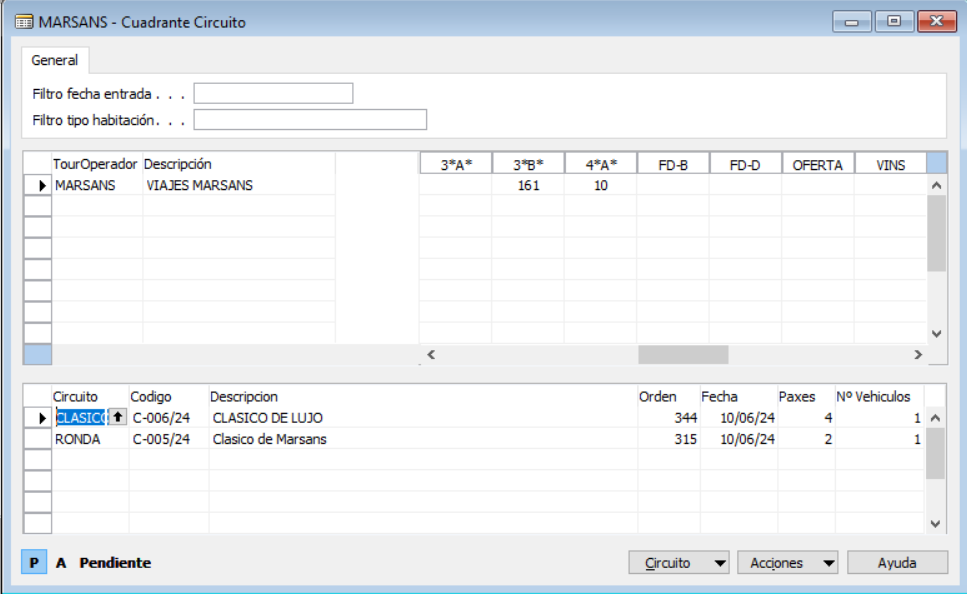
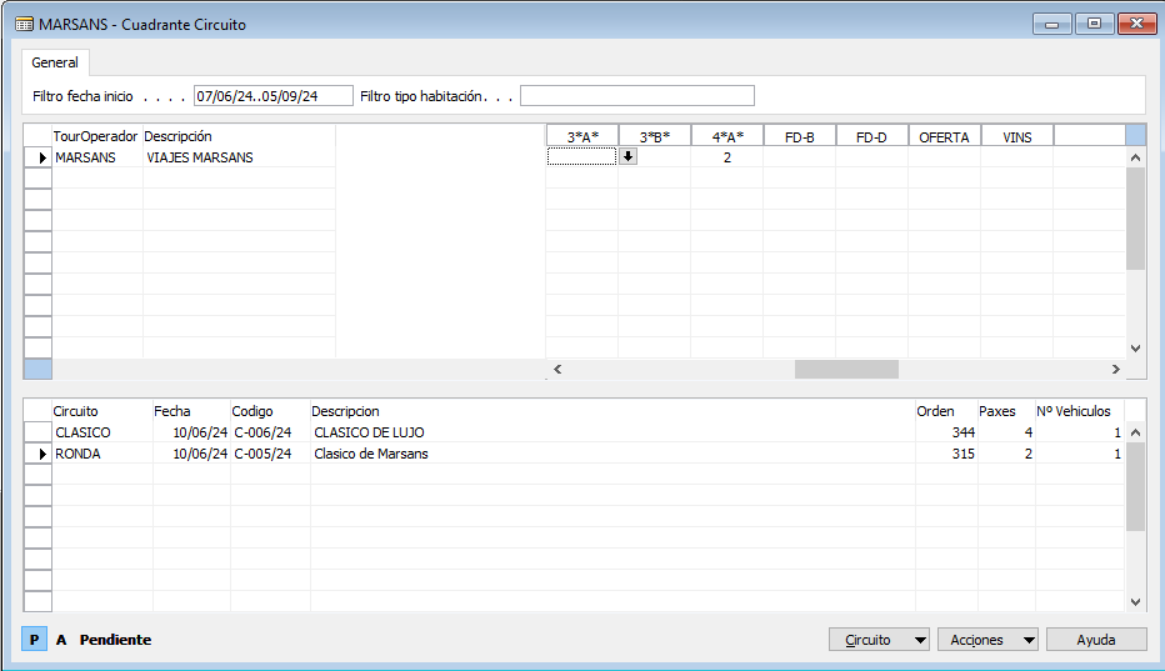
Gestion de circuitos

Changed region(s): [[0.0, 0.0, 1.0, 1.0], [0.4343, 0.5758, 0.4654, 0.6061]]

diff --git a/docs/Circuitos/04 - Gestion Reservas.md b/docs/Circuitos/04 - Gestion Reservas.md
@@ -2,7 +2,7 @@
 
 ## Crear una prereserva
 
-Cuando el touroperador envia la información, de una reserva de circuitos, la creamos dentro de circuitos como una pre-reserva. Las pre-reservas se irán numerando automáticamente.
+Cuando el touroperador envia la información, de una reserva de circuitos, la creamos dentro de circuitos como una pre-reserva, estas pre-reservas se irán numerando automáticamente y sirven de base para la creación de las reservas del módulo de circuito, estas reservas se asignan a las salidas de los circuitos.
 
 ![alt text](.\images\ListaPrereservas.png)
 
@@ -35,7 +35,33 @@ Esta opción es la que vamos a utilizar para crear las salidas de los circuitos 
 
 El cuadrante tiene dos opciones, para ver los clientes pendientes de asignar o los clientes ya asignados a una salida de circuito, para alternar este ambas opciones están los botones P y A en la esquina inferior izquierda o usando las opciones que hay en el botón **Circuito**.
 
-En la parte superior de la consulta el usuario puede establecer filtros de fecha y de tipos de habitación para limitar la cantidad de reservas que se suman en los cruces entre touroperador y categoria.
+En la parte superior de la consulta el usuario puede establecer filtros de fecha de inicio del circuito y de tipos de habitación para limitar la cantidad de reservas que se suman en los cruces entre touroperador y categoria.
 
 ![alt text](.\images\CuadranteCircuitos.png)
 
+### Crear salida circuito
+
+En primer lugar tenemos que crear un salida de uno de los circuitos para poder asignar las reservas a ese circuito. Para crearlo hay que ir a la lista de salidas y con F3 crear un nuevo registro para después completar la información:
+
+- **Circuito**, escoger uno de los códigos de circuito existentes.
+- **Fecha**, será la fecha de salida del circuito, es un dato limitante de las reservas que se podrán asignar a este circuito. 
+- **Codigo**, es el código interno (alfanumérico y manual) que se asigna al circuito. 
+- **Descripción**, texto libre para indicar cualquier nota, este campo lo veremos en todas las consultas de las salidas de circuitos.
+- **Orden**, es el código interno automático que se asigna al circuito.
+- **Nº Vehiculos**, cantidad de vehículos del circuito (usualmente 1, así que este es el valor por defecto)
+
+A medida que se asignan reservas al circuito, el campo **Paxes** irá mostrando la suma de personas del circuito.
+
+### Asignar reservas al circuito
+
+Antes de asignar las reservas al circuito, tenemos que seleccionar que reservas se van a asignar, para trabajar con la selección disponemos de varias opciones:
+
+- Las acciones para marcar grupos de reservas del botón **Acciones**. Estas acciones sirven tanto para marcar como para desmarcar grupos de reservas. Hay que tener en cuenta que solo se marcan las reservas que no tengan circuito asignado y que no estén anuladas.
+- Navegar, usando **F6**, al detalle de las reservas que componen la cantidad que vemos en el cuadrante. En la lista de reservas que se abre, dentro del botón **Reserva** tenemos la opción **Marcar** que trabajará con las reservas seleccionadas. 
+- La opción **Borrar marcas** del botón **Acciones** desmarca todas las reservas del cuadrante.
+
+Una vez hemos seleccionado las reservas, tenemos que usar la opción **Añadir a circuito** del botón **Acciones** para asignar esas reservas al circuito que este seleccionado en ese momento, en la parte inferior del cuadrante. En este momento el programa mostrará un mensaje para cada reserva que no tenga el número de documento personal asignado, de momento se trata solo de un aviso que puede convertirse en un error más adelante.
+
+### Sacar reservas de un circuito
+
+Si se han asignado incorrectamente reservas a un circuito tenemos la posiblidad de sacarlas del circuito, en primer lugar tenemos que seleccionar las reservas con las que vamos a trabajar, para hacerlo tenemos que poner en cuadrante en modo Asignado, como hemos visto antes, después tenemos que navegar, con **F6**, al detalle de las reservas y marcar las reservas que queremos sacar del circuito, a continuación tenemos que usar la opción **Sacar de circuito** del botón **Acciones**. 

diff --git a/docs/Circuitos/05 - Gestion circuitos.md b/docs/Circuitos/05 - Gestion circuitos.md
@@ -1,0 +1,33 @@
+# Gestión de circuitos
+
+Una vez se han asignado las reservas a la salida del circuito comienza su gestión operativa, vamos a empezar en la **Circuitos** de la carpeta **Circuitos**.
+
+![alt text](.\images\ListaCircuitos.png)
+
+Con la opción **Ficha** vamos a poder ver todo el detalle del registro sobre el que está el cursor.
+
+## Gestión hoteles
+
+Cuando se asignan reservas a un circuito se crea una copia de los hoteles definidos en la tarifa de venta del touroperador de esas reservas [Hoteles Tarifa](02%20-%20Tarifas%20venta.md#HotelesTarifaVenta). Esta información la vamos poder gestionar desde la opción **Hoteles** del botón **Circuitos**.
+
+![alt text](.\images\ListaHotelesCircuito.png)
+
+La columna **Hotel** será la única información que podremos cambiar en esta consulta para poder utilizar un hotel diferente al programado inicialmente, cuando se cambie se va a marcar la columna **Modificado manual**. En la lista de hoteles tenemos la opción Ficha para poder ver en detalle el estado cada uno de los hoteles
+
+### Generar rooming previo
+
+Desde la lista de hoteles podemos generar un listado rooming previo para todos los hoteles del circuito, usando la opción **Generar listado** del botón **Hoteles**, al ejecutarla se va a crear un fichero excel para cada hotel, si se configura el servidor de SMTP esos ficheros se enviarán a la dirección de correo electrónica configurada en la ficha del hotel. Los ficheros se almacenarán en la carpeta definida en el campo **Carpeta ficheros** de los parámetros de circuito, el nombre del fichero se comprondrá con circuito más el código interno más la fecha y hora de creación.
+
+![alt text](images\EjemploRoomingPrevioHotel.png)
+
+La fecha y hora de envío se almacena en cada registro de hotel del circuito, así como el usuario que hizo el envío.
+
+### Confirmar hoteles
+
+Cuando obtengamos la confirmación de las reservas, por parte del hotel, tenemos que marcarlo en el sistema ya que el programa va a controlar que no podamos pasar las reservas a los modulos de Transfer y Hotel hasta no tener la confirmación de todos los hoteles, usaremos la opción **Confirmar hoteles** del botón **Hoteles**, esta acción solo trabaja con los hoteles seleccionados en la pantalla para poder ir marcando las confirmaciones a medida que vayan llegando. Para cada hotel se almacena la fecha y hora de confirmación y el usuario que lo hizo.
+
+En caso de ser necesario podemos retroceder esta marca, usando la opción **Desconfirmar hoteles** de ese mismo botón, también trabajaremos únicamente con los hoteles seleccionados en la pantalla.
+
+### Generar bonos cliente
+
+Desde la lista de los hoteles podemos generar el bono para que el guia lo entregue en el hotel como justificante del servicio. 

diff --git a/docs/Circuitos/02 - Tarifas venta.md b/docs/Circuitos/02 - Tarifas venta.md
@@ -45,7 +45,7 @@ En la tarifa se definen los precios de venta que aplican a los circuitos que ven
 
 El campo **Activo** se mantiene automáticamente mientras se introduce la informacion en el precio (el programa comprueba que no se produzcan solapamientos). Un precio sin la marca de Activo es como si no existiera a efectos del cálculo del circuito. Se puede forzar la comprobación de un precio utilizando la opción **Activar** del botón **Tarifas**.
 
-## Definir hoteles
+## Definir hoteles {#HotelesTarifaVenta}
 
 Para cada combinación de **Circuito** y **Categoria** se va a crear un itinerario de hoteles en los que se alojarán los clientes durante el circuito.
 

diff --git a/docs/index.md b/docs/index.md
@@ -1,3 +1,3 @@
 # Contenido
 
-Para documentacion completa visit [mkdocs.org](http://www.mkdocs.org)
+Documentación funcional de Atennea Incoming para PALIA.
